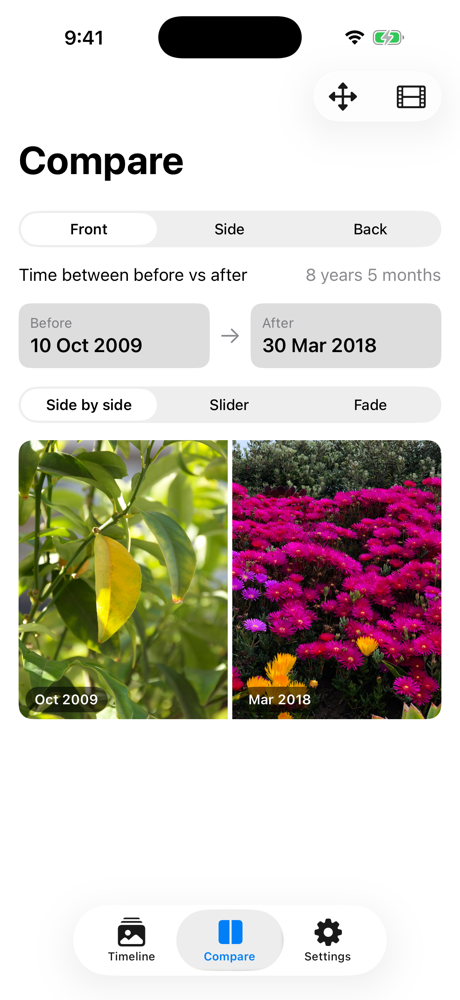
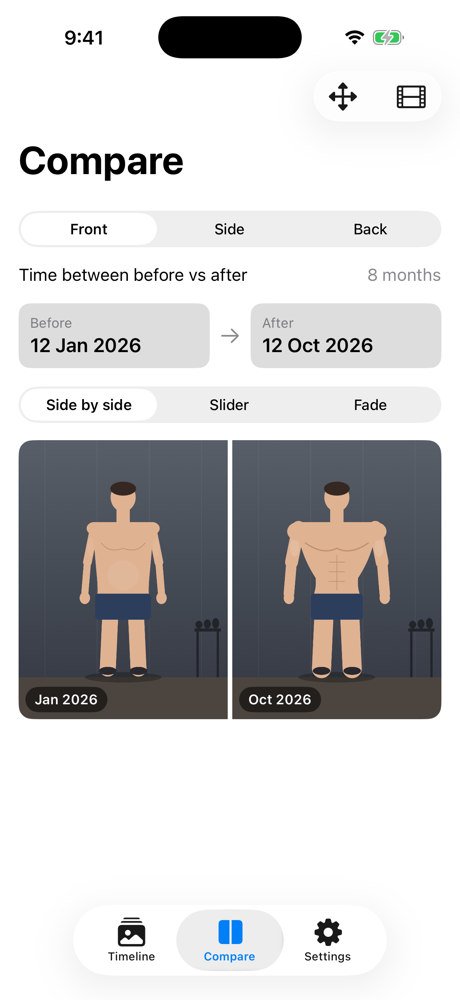
Use illustrated gym demo photos in README screenshots

diff --git a/README.md b/README.md
@@ -17,7 +17,7 @@ Everything stays on your phone: no account, no server, no analytics.
   </tr>
 </table>
 
-<sub>Screenshots are from the iOS Simulator using its built-in sample photos.</sub>
+<sub>Screenshots are from the iOS Simulator with illustrated demo photos, not a real person.</sub>
 
 ## Features
 
